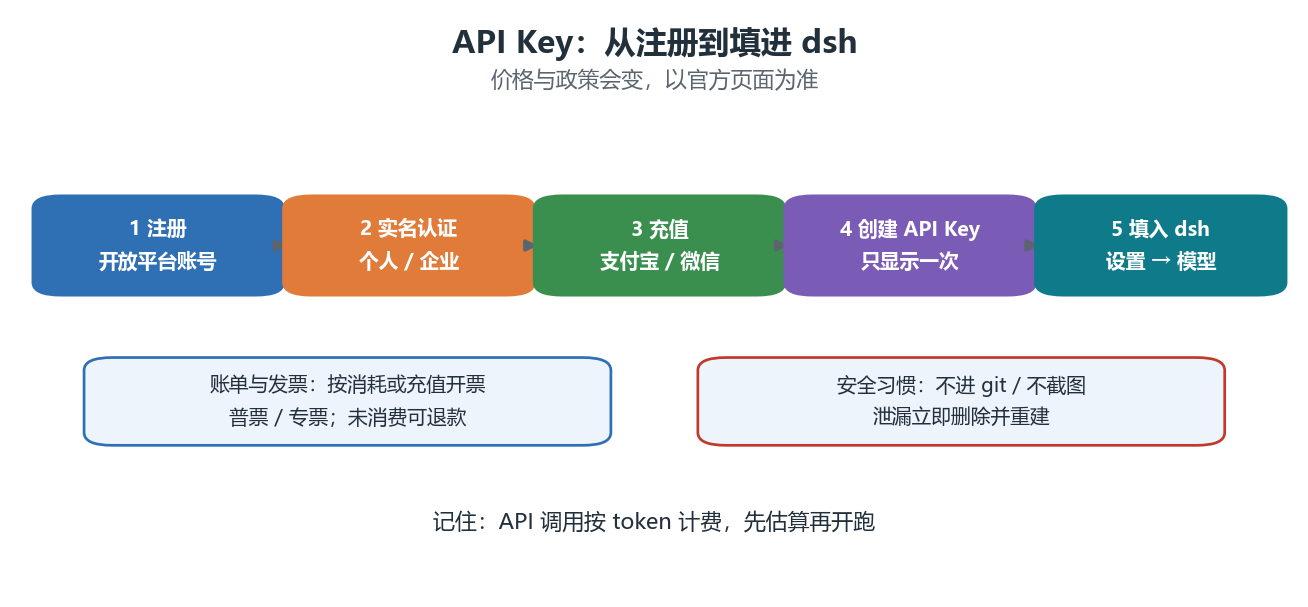
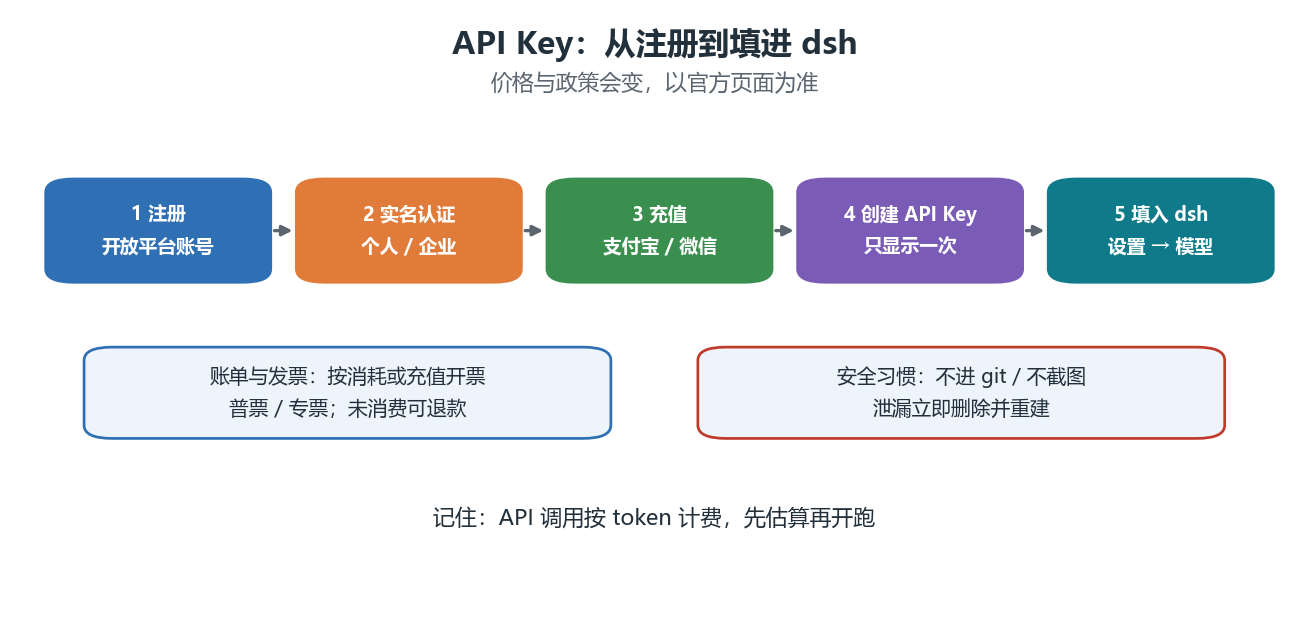
第9章 M1 修订：概念图重绘（箭头锚定方框边界，消除方框重叠）
- make_chap9_figures.py 改为 box() 返回 patch、arrow(patchA, patchB) 锚定，箭头端点一律停在方框边界外 1.5pt
- 修复 agent_loop 中央循环框压住 3/4 号节点的问题；改为中心圆直达交付框并加达标标注
- 修复 subagent_split 统一上下文标签与探索代理框重叠；汇报箭头改为虚线细箭头以区分派发
- 修复 permission_flow 底部横幅超出画布、api_key_flow 步骤框边界相接等问题

diff --git a/docs/build/make_chap9_figures.py b/docs/build/make_chap9_figures.py
@@ -1,6 +1,11 @@
 # -*- coding: utf-8 -*-
-"""Generate concept figures for chapter 09 (AI agent coding with DeepSeek Harness)."""
+"""Generate concept figures for chapter 09 (AI agent coding with DeepSeek Harness).
+
+所有箭头都用 patchA/patchB 锚定到方框本体，箭头端点落在方框边界外 1.5pt，
+因此不会指进文字框内部；方框坐标之间保留 >= 1.5 单位间隙，避免边界重叠。
+"""
 import os
+import math
 import matplotlib
 matplotlib.use("Agg")
 import matplotlib.pyplot as plt
@@ -19,28 +24,38 @@ BLUE = "#2f6fb3"
 ORANGE = "#e07b39"
 GREEN = "#3a8f4f"
 PURPLE = "#7a5bb5"
+TEAL = "#0f7b8a"
+RED = "#c0392b"
 GRAY = "#5b6570"
-LIGHT = "#eef4fb"
 DARK = "#22303c"
+LIGHT = "#eef4fb"
+PALE = "#e4e9f0"
 
-def new_ax(w=11.0, h=6.0):
+def new_ax(w=11.0, h=6.5):
     fig, ax = plt.subplots(figsize=(w, h))
     ax.set_xlim(0, 100)
     ax.set_ylim(0, 100)
     ax.axis("off")
     return fig, ax
 
-def box(ax, x, y, w, h, text, fc, tc="white", fs=11, ec=None, bold=True, r=2.2):
-    ax.add_patch(FancyBboxPatch((x, y), w, h,
-                                boxstyle="round,pad=0.6,rounding_size=" + str(r),
-                                linewidth=1.3, edgecolor=ec or fc, facecolor=fc,
-                                mutation_aspect=1.0))
-    ax.text(x + w / 2.0, y + h / 2.0, text, ha="center", va="center", fontsize=fs,
-            color=tc, weight="bold" if bold else "normal", linespacing=1.7)
+def box(ax, x, y, w, h, text, fc, tc="white", fs=11, ec=None, bold=True, ls="-", lw=1.3):
+    p = FancyBboxPatch((x, y), w, h,
+                       boxstyle="round,pad=0.6,rounding_size=2.2",
+                       linewidth=lw, edgecolor=ec or fc, facecolor=fc, linestyle=ls,
+                       mutation_aspect=1.0)
+    ax.add_patch(p)
+    p.center = (x + w / 2.0, y + h / 2.0)
+    if text:
+        ax.text(p.center[0], p.center[1], text, ha="center", va="center", fontsize=fs,
+                color=tc, weight="bold" if bold else "normal", linespacing=1.7)
+    return p
 
-def arrow(ax, p, q, color=GRAY, lw=1.6, rad=0.0, style="-|>", ms=13):
-    ax.add_patch(FancyArrowPatch(p, q, arrowstyle=style, mutation_scale=ms,
-                                 linewidth=lw, color=color,
+def arrow(a, b, color=GRAY, lw=1.6, rad=0.0, ms=13, ls="-"):
+    ax = a.axes
+    ax.add_patch(FancyArrowPatch(posA=a.center, posB=b.center, patchA=a, patchB=b,
+                                 shrinkA=1.5, shrinkB=1.5, arrowstyle="-|>",
+                                 mutation_scale=ms, linewidth=lw, color=color,
+                                 linestyle=ls,
                                  connectionstyle="arc3,rad=" + str(rad)))
 
 def title(ax, text, sub=None):
@@ -49,13 +64,12 @@ def title(ax, text, sub=None):
         ax.text(50, 88.5, sub, ha="center", va="center", fontsize=10.5, color=GRAY)
 
 def save(fig, name):
-    path = os.path.join(OUT, name)
-    fig.savefig(path, facecolor="white")
+    fig.savefig(os.path.join(OUT, name), facecolor="white")
     plt.close(fig)
     print("[ok]", name)
 
 def fig_agent_vs_completion():
-    fig, ax = new_ax(11, 6)
+    fig, ax = new_ax(11, 6.5)
     title(ax, "三代编程助手：从补全到 Agent", "同样是 AI，能做的事完全不同")
     cols = [
         ("代码补全", BLUE, "看你正在写的这一行", "猜出下一行代码", "你负责：想清楚、跑通、验证"),
@@ -63,18 +77,20 @@ def fig_agent_vs_completion():
         ("Agent 编程", GREEN, "你给目标与验收标准", "读文件 / 跑命令" + chr(10) + "改代码 / 再验证", "你负责：定义问题、定验收、做终审"),
     ]
     for i, (name, color, how, what, duty) in enumerate(cols):
-        x = 5 + i * 31.5
-        box(ax, x, 76, 26, 10, name, color, fs=13)
-        box(ax, x, 55, 26, 16, how, LIGHT, tc=DARK, fs=10.5, bold=False, ec=color)
-        arrow(ax, (x + 13, 54), (x + 13, 47), color=color)
-        box(ax, x, 30, 26, 15, what, color, fs=10.0)
-        box(ax, x, 8, 26, 17, duty, "white", tc=DARK, fs=10, bold=False, ec=color)
+        x = 3 + i * 32.5
+        head = box(ax, x, 78, 29, 9, name, color, fs=13)
+        hw = box(ax, x, 62, 29, 12, how, LIGHT, tc=DARK, fs=10.5, bold=False, ec=color)
+        wt = box(ax, x, 44, 29, 14, what, color, fs=10.0)
+        dt = box(ax, x, 26, 29, 12, duty, "white", tc=DARK, fs=10, bold=False, ec=color)
+        arrow(head, hw, color=color, ms=12)
+        arrow(hw, wt, color=color, ms=12)
+        arrow(wt, dt, color=color, ms=12)
     save(fig, "agent_vs_completion.png")
 
 def fig_agent_loop():
-    fig, ax = new_ax(9, 8)
-    title(ax, "一次 Agent 循环的解剖", "循环直到满足验收标准，或需要人介入")
-    cx, cy, R = 50, 46, 27
+    fig, ax = new_ax(9.5, 8)
+    title(ax, "一次 Agent 循环的解剖", "未达标就继续下一轮，达标才交付；必要时请人介入")
+    cx, cy, R = 50, 48, 28
     nodes = [
         ("1 读", "读文件 / 看目录 / 查报错", 90),
         ("2 想", "拆解任务 / 定计划", 18),
@@ -82,155 +98,155 @@ def fig_agent_loop():
         ("4 看", "读输出：测试结果 / 报错", -126),
         ("5 判", "达标了吗？", -198),
     ]
-    import math
+    boxes = []
     for label, desc, deg in nodes:
         a = math.radians(deg)
         x = cx + R * math.cos(a)
         y = cy + R * math.sin(a)
-        box(ax, x - 13, y - 6, 26, 12, label, BLUE, fs=11.5)
-        ax.text(x, y - 10.5, desc, ha="center", va="center", fontsize=8.5, color=GRAY)
-    for deg in [90, 18, -54, -126]:
-        a1 = math.radians(deg - 14)
-        a2 = math.radians(deg - 58)
-        arrow(ax, (cx + R * math.cos(a1), cy + R * math.sin(a1)),
-              (cx + R * math.cos(a2), cy + R * math.sin(a2)), rad=-0.25, color=GRAY)
-    ax.add_patch(Circle((cx, cy), 14, facecolor=LIGHT, edgecolor=BLUE, linewidth=1.4))
-    ax.text(cx, cy + 2.5, "上下文", ha="center", va="center", fontsize=12, weight="bold", color=BLUE)
-    ax.text(cx, cy - 3.5, "历史 + 文件 + 工具输出", ha="center", va="center", fontsize=8.5, color=GRAY)
-    box(ax, 30, 3, 40, 9, "达标 → 交付：产物 + 证据 + 说明", GREEN, fs=10.5)
-    arrow(ax, (36, 20), (44, 12.5), color=GREEN, rad=-0.2)
-    arrow(ax, (50, 20), (50, 13), color=GREEN)
+        boxes.append(box(ax, x - 14, y - 7.5, 28, 15,
+                         label + chr(10) + desc, BLUE, fs=9.5))
+    for i in range(5):
+        arrow(boxes[i], boxes[(i + 1) % 5], color=GRAY, rad=-0.22, ms=12)
+    core = Circle((cx, cy), 11, facecolor=LIGHT, edgecolor=BLUE, linewidth=1.4)
+    ax.add_patch(core)
+    core.center = (cx, cy)
+    ax.text(cx, cy + 2.6, "上下文", ha="center", va="center", fontsize=12, weight="bold", color=BLUE)
+    ax.text(cx, cy - 3.4, "历史 + 文件" + chr(10) + "+ 工具输出", ha="center", va="center", fontsize=8.5, color=GRAY, linespacing=1.5)
+    done = box(ax, 27, 5, 46, 10, "达标 → 交付：产物 + 证据 + 说明", GREEN, fs=11)
+    arrow(core, done, color=GREEN, ms=12)
+    ax.text(51.2, 34, "达标", ha="left", va="center", fontsize=9, color=GREEN)
     save(fig, "agent_loop.png")
 
 def fig_harness_anatomy():
     fig, ax = new_ax(11, 6.5)
     title(ax, "harness（智能体框架）由五件事组成", "模型只是其中一件；差距往往在其余四件")
-    box(ax, 30, 38, 40, 20, "Agent 循环" + chr(10) + "读 → 想 → 做 → 看 → 判", BLUE, fs=13)
-    parts = [
-        (2, 68, "模型 LLM", "推理与决策", ORANGE),
-        (74, 68, "工具 Tools", "读写文件 / 跑命令 / 搜索", GREEN),
-        (2, 12, "上下文 Context", "会话历史 + 指令 + 文件内容", PURPLE),
-        (74, 12, "权限 Permission", "能不能写 / 要不要审批", "#c0392b"),
-    ]
-    for x, y, name, desc, color in parts:
-        box(ax, x, y, 24, 16, name + chr(10) + desc, color, fs=9.5)
-    box(ax, 34, 12, 32, 14, "会话 Session", "#0f7b8a", fs=11)
-    ax.text(50, 9, "工作区 workspace：Agent 能看见和改动的边界", ha="center", va="center", fontsize=10, color=DARK)
-    arrow(ax, (20, 76), (34, 58), color=ORANGE, rad=0.15)
-    arrow(ax, (80, 76), (66, 58), color=GREEN, rad=-0.15)
-    arrow(ax, (18, 28), (32, 42), color=PURPLE, rad=0.15)
-    arrow(ax, (82, 28), (70, 42), color="#c0392b", rad=-0.15)
-    arrow(ax, (50, 26), (50, 39), color="#0f7b8a")
+    core = box(ax, 30, 40, 40, 18, "Agent 循环" + chr(10) + "读 → 想 → 做 → 看 → 判", BLUE, fs=13)
+    m = box(ax, 2, 68, 24, 14, "模型 LLM" + chr(10) + "推理与决策", ORANGE, fs=10)
+    t = box(ax, 74, 68, 24, 14, "工具 Tools" + chr(10) + "读写文件 / 跑命令", GREEN, fs=10)
+    c = box(ax, 2, 14, 24, 14, "上下文 Context" + chr(10) + "历史 + 指令 + 文件", PURPLE, fs=9.5)
+    p = box(ax, 74, 14, 24, 14, "权限 Permission" + chr(10) + "能不能写 / 要审批", RED, fs=9.5)
+    s = box(ax, 36, 14, 28, 14, "会话 Session" + chr(10) + "全程记录可回看", TEAL, fs=10)
+    arrow(m, core, color=ORANGE, rad=0.12)
+    arrow(t, core, color=GREEN, rad=-0.12)
+    arrow(c, core, color=PURPLE, rad=0.12)
+    arrow(p, core, color=RED, rad=-0.12)
+    arrow(s, core, color=TEAL)
+    ax.text(50, 8, "工作区 workspace：Agent 能看见和改动的边界", ha="center", va="center", fontsize=10, color=DARK)
     save(fig, "harness_anatomy.png")
 
 def fig_context_window():
-    fig, ax = new_ax(11, 5.5)
+    fig, ax = new_ax(11, 5.8)
     title(ax, "上下文窗口：Agent 的短期记忆", "窗口再大也会满；满了就要压缩或遗忘")
     segs = [
         ("系统提示 + AGENTS.md", 18, ORANGE),
         ("对话历史", 20, BLUE),
         ("读入的文件内容", 26, GREEN),
         ("工具输出（日志 / 报错）", 22, PURPLE),
-        ("剩余空间", 10, "#dfe6ee"),
+        ("剩余", 10, PALE),
     ]
     x = 2
     for name, w, color in segs:
-        tc = DARK if color == "#dfe6ee" else "white"
-        box(ax, x, 56, w, 12, name, color, tc=tc, fs=9.0)
+        tc = DARK if color == PALE else "white"
+        box(ax, x, 62, w - 1.2, 12, name, color, tc=tc, fs=8.5, r=1.0) if False else box(ax, x, 62, w - 1.2, 12, name, color, tc=tc, fs=8.5)
         x += w
-    ax.text(4, 50, "一次长任务后：上下文接近占满", ha="left", va="center", fontsize=10, color=GRAY)
-    arrow(ax, (50, 46), (50, 38), color=GRAY, lw=2)
-    box(ax, 8, 22, 84, 13, "压缩 compaction：保留任务目标、结论与关键证据，丢弃冗余过程", "#0f7b8a", fs=11)
+    ax.text(2, 54, "一次长任务后：上下文接近占满", ha="left", va="center", fontsize=10, color=GRAY)
+    mid = box(ax, 46, 40, 8, 8, "压缩", TEAL, fs=10)
+    comp = box(ax, 4, 24, 92, 12, "压缩 compaction：保留任务目标、结论与关键证据，丢弃冗余过程", TEAL, fs=11)
+    arrow(mid, comp, color=TEAL, ms=12)
     segs2 = [
         ("目标 + 约束 + 验收标准", 28, ORANGE),
         ("结论与证据", 24, GREEN),
         ("最近几轮对话", 30, BLUE),
-        ("剩余空间", 14, "#dfe6ee"),
+        ("剩余", 14, PALE),
     ]
     x = 2
     for name, w, color in segs2:
-        tc = DARK if color == "#dfe6ee" else "white"
-        box(ax, x, 4, w, 12, name, color, tc=tc, fs=9.0)
+        tc = DARK if color == PALE else "white"
+        box(ax, x, 6, w - 1.2, 12, name, color, tc=tc, fs=8.5)
         x += w
     save(fig, "context_window.png")
 
 def fig_install_paths():
-    fig, ax = new_ax(11, 6.5)
+    fig, ax = new_ax(11, 6.8)
     title(ax, "三条安装路径：先选场景，再选命令", "版本基线 v0.1.5-rc.2；命令以官方当前版本为准")
-    box(ax, 33, 72, 34, 10, "我想用 DeepSeek Harness", DARK, fs=12)
+    top = box(ax, 31, 74, 38, 10, "我想用 DeepSeek Harness", DARK, fs=12)
     paths = [
         (3, "只要试用 / 机房机器", "不装进系统，用完即走", "npx @deepseek-ai/dsh web", BLUE),
         (35.5, "长期使用 / 要脚本化", "可跑无界面任务、进流水线", "npm i -g @deepseek-ai/dsh", ORANGE),
         (68, "要原生窗口 / 自带运行时", "源码构建，官方无预编译包", "pnpm run package:desktop:win:x64", GREEN),
     ]
-    for i, (x, scene, why, cmd, color) in enumerate(paths):
-        arrow(ax, (50, 71), (x + 14, 66), color=color, rad=0.12)
-        box(ax, x, 54, 29, 12, scene, color, fs=11)
-        ax.text(x + 14.5, 49, why, ha="center", va="center", fontsize=9, color=GRAY)
-        box(ax, x, 33, 29, 12, cmd, LIGHT, tc=DARK, fs=8.6, bold=False, ec=color)
-        last = "浏览器界面" + chr(10) + "127.0.0.1:3080" if i < 2 else "原生窗口" + chr(10) + "端口 19387"
-        box(ax, x, 16, 29, 13, last, "white", tc=DARK, fs=9.5, bold=False, ec=color)
-    ax.text(50, 7, "共同前置：先装 Node.js（自带 npm 与 npx），要求 ^22.19.0 或 >= 24", ha="center", va="center", fontsize=10, color="#c0392b")
+    for x, scene, why, cmd, color in paths:
+        h = box(ax, x, 54, 29, 12, scene, color, fs=11)
+        c = box(ax, x, 34, 29, 12, cmd, LIGHT, tc=DARK, fs=8.4, bold=False, ec=color)
+        r = box(ax, x, 16, 29, 12, why, "white", tc=GRAY, fs=9, bold=False, ec=color)
+        arrow(top, h, color=color, rad=0.10, ms=12)
+        arrow(h, c, color=color, ms=11)
+        arrow(c, r, color=color, ls=":", ms=10)
+    ax.text(50, 8, "共同前置：先装 Node.js（自带 npm 与 npx），要求 ^22.19.0 或 >= 24", ha="center", va="center", fontsize=10, color=RED)
     save(fig, "install_paths.png")
 
 def fig_permission_flow():
-    fig, ax = new_ax(11, 6)
+    fig, ax = new_ax(11, 6.2)
     title(ax, "权限档位与审批：把风险关在笼子里", "默认从最小权限开始，按需放开")
     tiers = [
         ("read-only", "只读：能看不能改", BLUE),
         ("workspace-write", "只能改工作区内的文件", ORANGE),
-        ("danger-full-access", "全盘可写、命令直通（慎用）", "#c0392b"),
+        ("danger-full-access", "全盘可写、命令直通（慎用）", RED),
     ]
     for i, (name, desc, color) in enumerate(tiers):
-        y = 66 - i * 17
-        box(ax, 3, y, 34, 12, name + chr(10) + desc, color, fs=9.5)
-    box(ax, 45, 62, 24, 12, "Agent 请求动作", DARK, fs=11)
-    box(ax, 45, 40, 24, 12, "权限判定", PURPLE, fs=11)
-    arrow(ax, (57, 61), (57, 53), color=GRAY)
-    box(ax, 74, 62, 23, 12, "只读范围" + chr(10) + "直接执行", GREEN, fs=10)
-    box(ax, 74, 40, 23, 12, "写 / 跑命令" + chr(10) + "弹窗审批", ORANGE, fs=10)
-    arrow(ax, (69, 68), (73, 68), color=GREEN)
-    arrow(ax, (69, 46), (73, 46), color=ORANGE)
-    box(ax, 74, 18, 23, 12, "你决定：允许 / 拒绝", "#c0392b", fs=10)
-    arrow(ax, (85.5, 39), (85.5, 31), color="#c0392b")
-    box(ax, 40, 10, 62, 8, "所有动作写进会话记录，随时可回看与追责", LIGHT, tc=DARK, fs=10, bold=False, ec=GRAY)
+        box(ax, 2, 68 - i * 18, 34, 13, name + chr(10) + desc, color, fs=9.5)
+    a = box(ax, 44, 66, 24, 11, "Agent 请求动作", DARK, fs=10.5)
+    b = box(ax, 44, 44, 24, 11, "权限判定", PURPLE, fs=10.5)
+    c = box(ax, 74, 66, 24, 11, "只读范围" + chr(10) + "直接执行", GREEN, fs=10)
+    d = box(ax, 74, 44, 24, 11, "写 / 跑命令" + chr(10) + "弹窗审批", ORANGE, fs=10)
+    e = box(ax, 74, 22, 24, 11, "你决定：" + chr(10) + "允许 / 拒绝", RED, fs=10)
+    arrow(a, b, color=GRAY)
+    arrow(a, c, color=GREEN)
+    arrow(b, d, color=ORANGE)
+    arrow(d, e, color=RED)
+    box(ax, 40, 6, 58, 9, "所有动作写进会话记录，随时可回看与追责", LIGHT, tc=DARK, fs=10, bold=False, ec=GRAY)
     save(fig, "permission_flow.png")
 
 def fig_api_key_flow():
-    fig, ax = new_ax(11, 5)
+    fig, ax = new_ax(11, 5.2)
     title(ax, "API Key：从注册到填进 dsh", "价格与政策会变，以官方页面为准")
     steps = [
         ("1 注册", "开放平台账号", BLUE),
         ("2 实名认证", "个人 / 企业", ORANGE),
         ("3 充值", "支付宝 / 微信", GREEN),
         ("4 创建 API Key", "只显示一次", PURPLE),
-        ("5 填入 dsh", "设置 → 模型", "#0f7b8a"),
+        ("5 填入 dsh", "设置 → 模型", TEAL),
     ]
+    prev = None
     for i, (name, desc, color) in enumerate(steps):
-        x = 2 + i * 19.6
-        box(ax, x, 52, 18.4, 16, name + chr(10) + desc, color, fs=9.5)
-        if i < 4:
-            arrow(ax, (x + 18.4, 60), (x + 19.6, 60), color=GRAY, ms=11)
-    box(ax, 6, 26, 40, 14, "账单与发票：按消耗或充值开票" + chr(10) + "普票 / 专票；未消费可退款", LIGHT, tc=DARK, fs=9.5, bold=False, ec=BLUE)
-    box(ax, 54, 26, 40, 14, "安全习惯：不进 git / 不截图" + chr(10) + "泄漏立即删除并重建", LIGHT, tc=DARK, fs=9.5, bold=False, ec="#c0392b")
-    ax.text(50, 12, "记住：API 调用按 token 计费，先估算再开跑", ha="center", va="center", fontsize=10.5, color=DARK)
+        x = 3 + i * 19.6
+        cur = box(ax, x, 56, 16.4, 16, name + chr(10) + desc, color, fs=9.0)
+        if prev is not None:
+            arrow(prev, cur, color=GRAY, ms=10)
+        prev = cur
+    box(ax, 6, 30, 40, 14, "账单与发票：按消耗或充值开票" + chr(10) + "普票 / 专票；未消费可退款", LIGHT, tc=DARK, fs=9.5, bold=False, ec=BLUE)
+    box(ax, 54, 30, 40, 14, "安全习惯：不进 git / 不截图" + chr(10) + "泄漏立即删除并重建", LIGHT, tc=DARK, fs=9.5, bold=False, ec=RED)
+    ax.text(50, 16, "记住：API 调用按 token 计费，先估算再开跑", ha="center", va="center", fontsize=10.5, color=DARK)
     save(fig, "api_key_flow.png")
 
 def fig_subagent_split():
-    fig, ax = new_ax(11, 6)
+    fig, ax = new_ax(11, 6.2)
     title(ax, "子代理分工：主代理负责合并与验收", "适合探索、并行、评审；小任务不必拆")
-    box(ax, 3, 40, 24, 18, "主代理" + chr(10) + "定计划 / 合并 / 验收", DARK, fs=11)
+    main = box(ax, 3, 42, 22, 16, "主代理" + chr(10) + "定计划 / 合并 / 验收", DARK, fs=10.5)
+    frame = FancyBboxPatch((44, 18), 36, 52, boxstyle="round,pad=0.6,rounding_size=2.5",
+                           linewidth=1.3, edgecolor=PURPLE, facecolor=LIGHT, linestyle="--")
+    ax.add_patch(frame)
+    ax.text(63, 67.5, "统一上下文（主代理维护）", ha="center", va="center", fontsize=9.5, color=PURPLE)
     subs = [
-        (52, "探索代理", "读代码 / 查资料 / 摸清数据", BLUE),
-        (36, "实现代理", "写脚本 / 改代码 / 跑测试", ORANGE),
-        (20, "评审代理", "找错 / 提反例 / 查数据泄漏", GREEN),
+        (52, "探索代理" + chr(10) + "读代码 / 查资料", BLUE),
+        (36, "实现代理" + chr(10) + "写脚本 / 改代码 / 跑测试", ORANGE),
+        (20, "评审代理" + chr(10) + "找错 / 提反例 / 查泄漏", GREEN),
     ]
-    for y, name, desc, color in subs:
-        box(ax, 48, y, 30, 13, name + chr(10) + desc, color, fs=10)
-        arrow(ax, (27.5, 52), (47, y + 10), color=color, rad=0.12, ms=11)
-        arrow(ax, (47, y + 3), (27.5, 46), color=color, rad=0.12, ms=11, style="-|>")
-    box(ax, 84, 24, 14, 28, "统一" + chr(10) + "上下文", PURPLE, fs=10.5)
-    box(ax, 6, 10, 74, 9, "产物：脚本 + 测试 + 报告 + 记录（人类终审）", LIGHT, tc=DARK, fs=10.5, bold=False, ec=GRAY)
+    for y, name, color in subs:
+        s = box(ax, 47, y, 30, 12, name, color, fs=9.0)
+        arrow(main, s, color=color, rad=0.10, ms=11)
+        arrow(s, main, color=color, rad=0.10, ms=9, lw=1.1, ls=":")
+    box(ax, 6, 4, 74, 9, "产物：脚本 + 测试 + 报告 + 记录（人类终审）", LIGHT, tc=DARK, fs=10.5, bold=False, ec=GRAY)
     save(fig, "subagent_split.png")
 
 def main():
